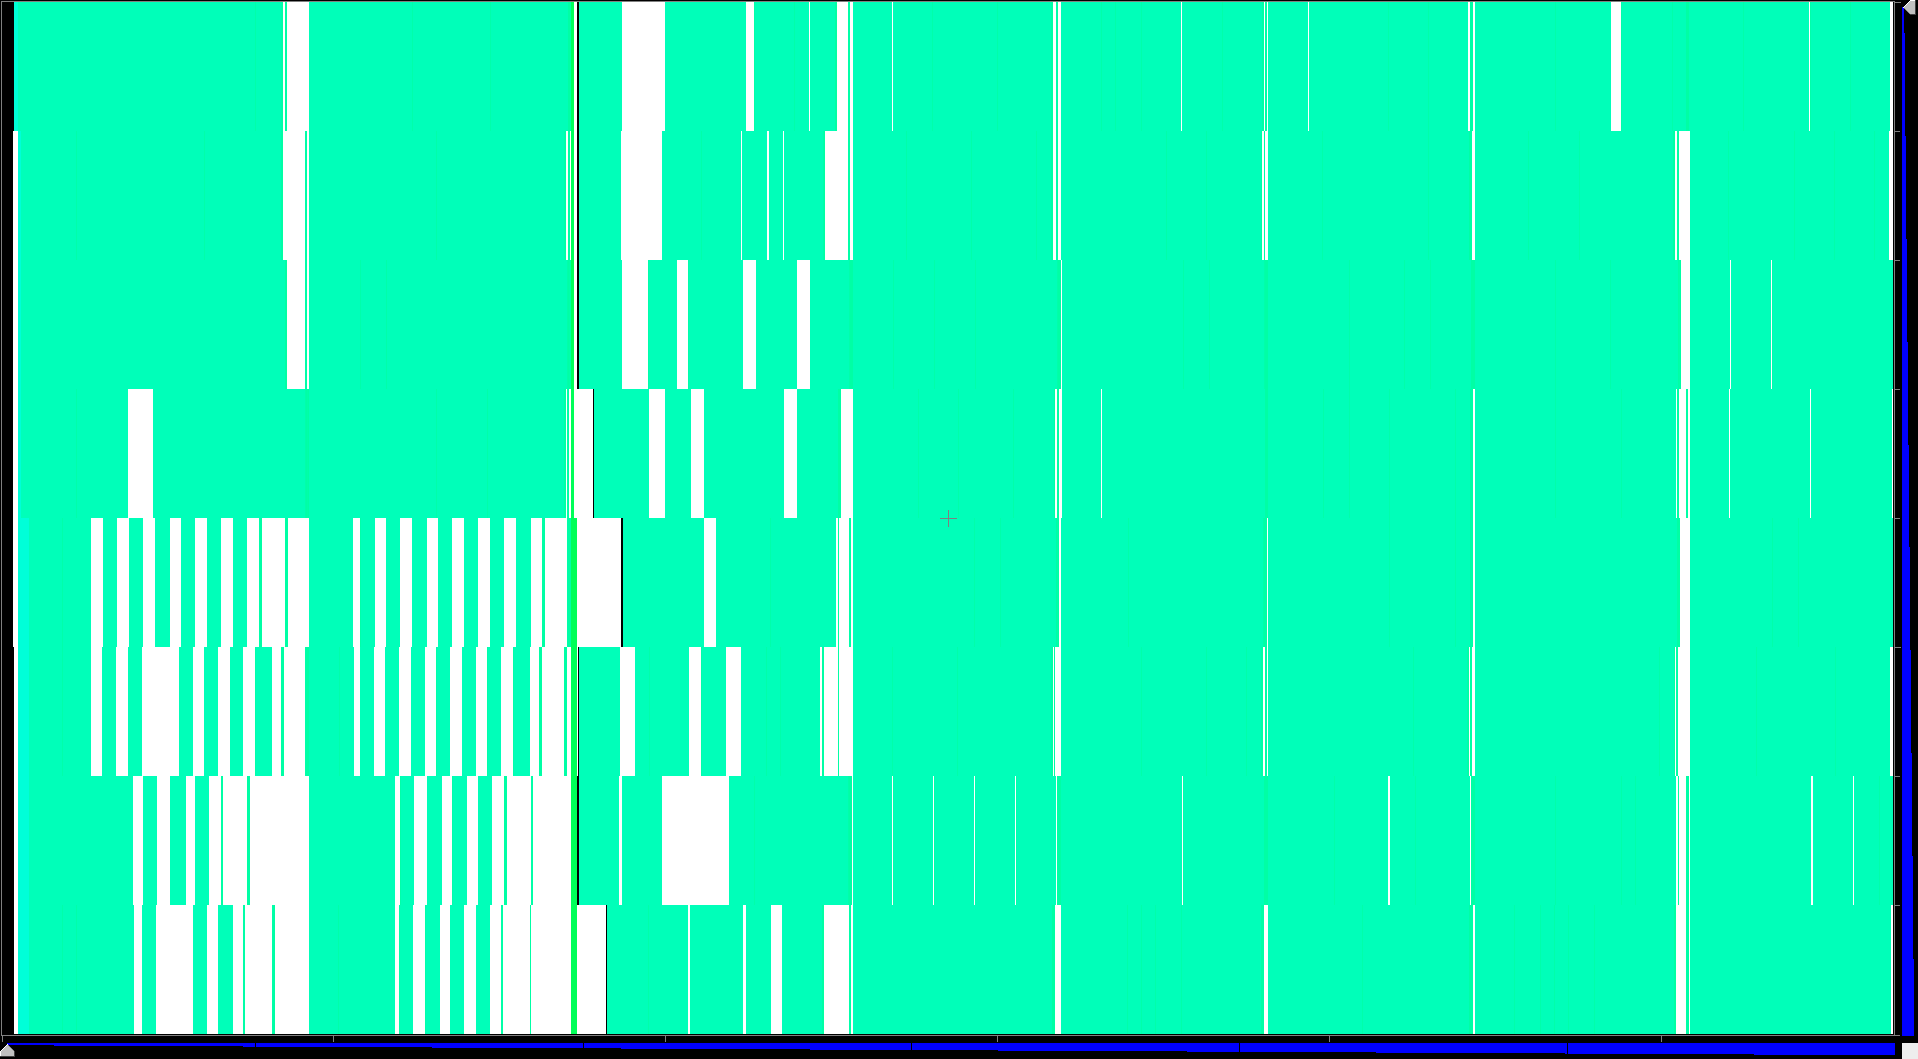
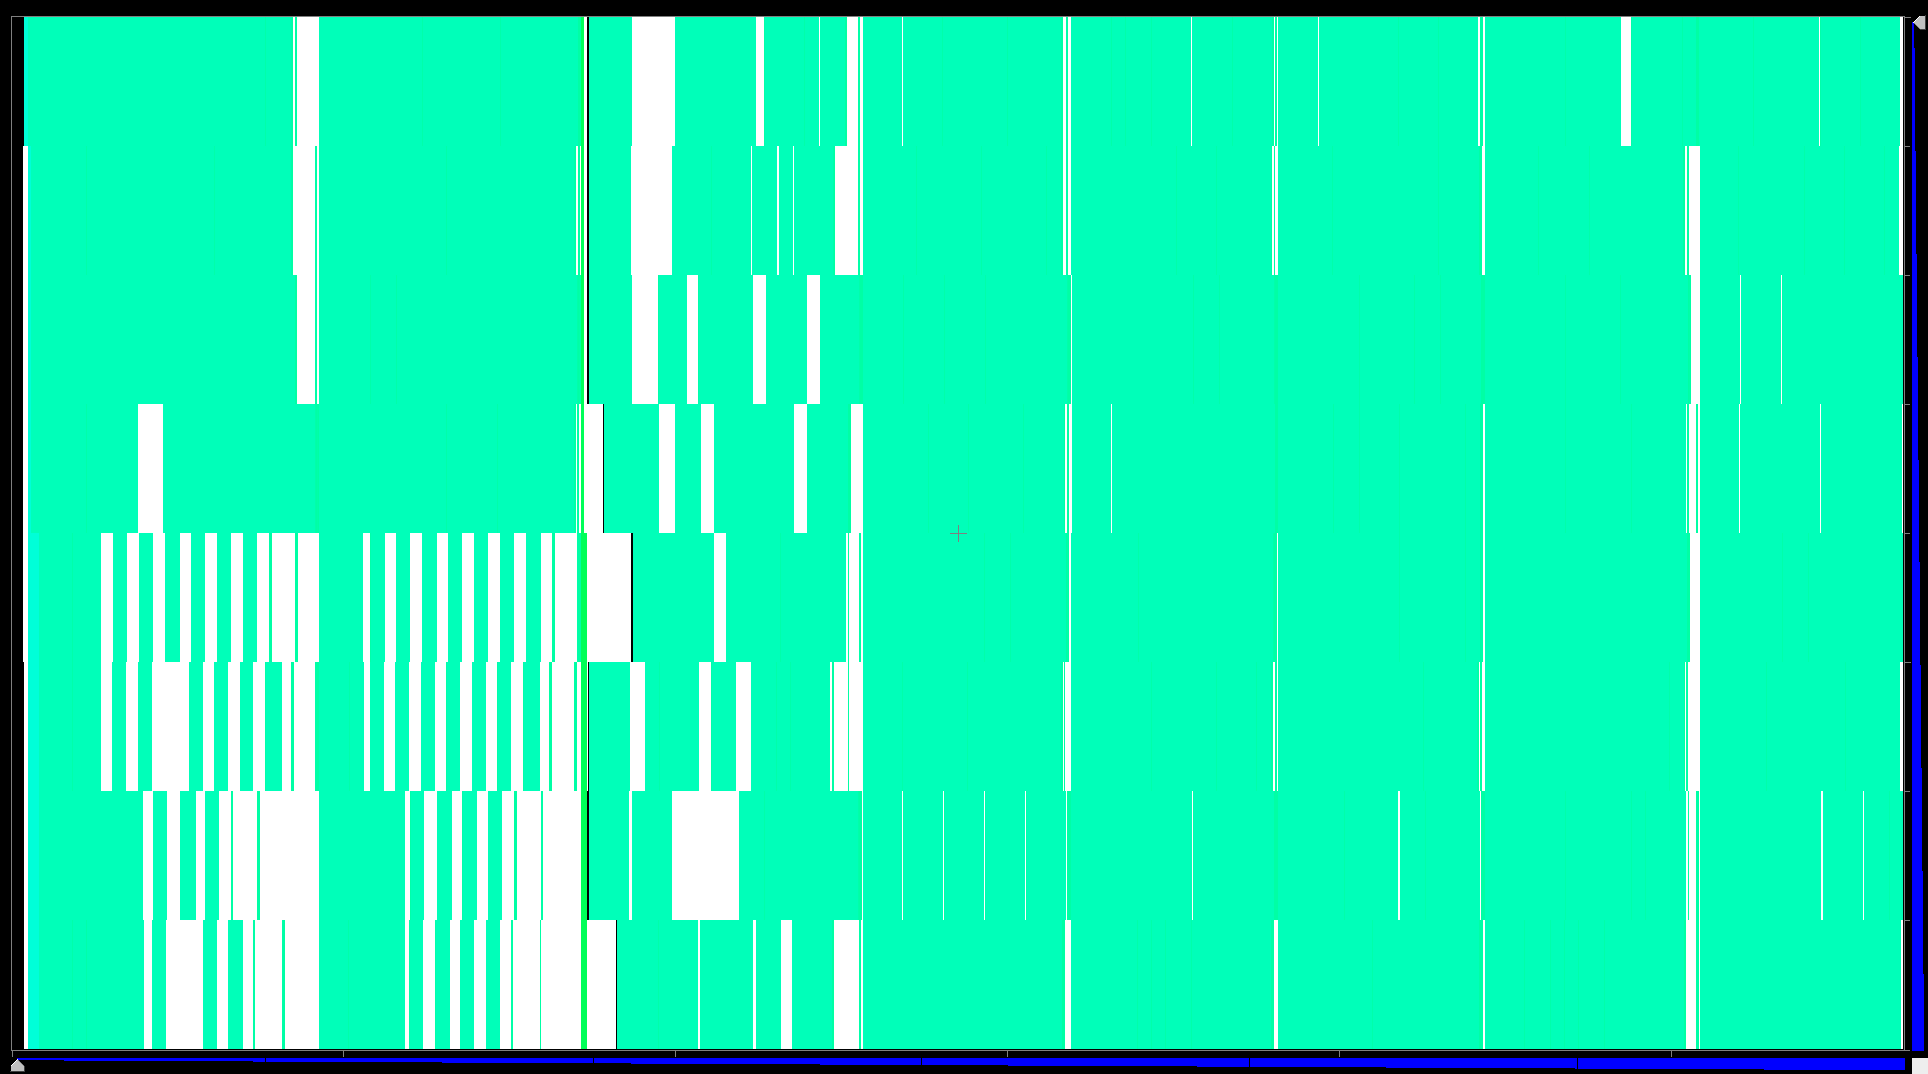
made LB slides better

diff --git a/CS598/scott_siam14.tex b/CS598/scott_siam14.tex
@@ -8,7 +8,9 @@
 \usepackage{animate}
 \usepackage{algorithm}
 \usepackage{algpseudocode}
+\usepackage{caption}
 \pgfplotsset{compat=newest}
+
 
 \usepackage{pgfpages}
 %\pgfpagesuselayout{4 on 1}[a4paper,border shrink=5mm]
@@ -607,29 +609,38 @@
 \end{frame}
 
 \begin{frame}{Numerical Experiments}{DummyLB}
-  \begin{figure}{Time Profile}
-    \includegraphics[width=.65\paperwidth,height=.35\paperheight]{figures/LoadBalancing/TimeProfileDummyLB}
+  \begin{figure}
+%    \floatbox[{\capbeside\thisfloatsetup{capbesideposition={left,top}}}]{figure}[\FBwidth]
+%    {\caption{Time Profile}\label{fig:test}}
+%    {\includegraphics[width=5cm]{name}}
+    \includegraphics[width=.75\paperwidth,height=.27\paperheight]{figures/LoadBalancing/TimeProfileDummyLB}
+    \caption{Time Profile}
   \end{figure}
-  \begin{figure}{\hspace{15pt}Overview}
-    \includegraphics[width=.65\paperwidth,height=.35\paperheight]{figures/LoadBalancing/OverviewDummyLB}
+  \begin{figure}
+    \includegraphics[width=.75\paperwidth,height=.27\paperheight]{figures/LoadBalancing/OverviewDummyLB}
+    \caption{Core Overview}
   \end{figure}
 \end{frame}
 
 \begin{frame}{Numerical Experiments}{GreedyLB}
-  \begin{figure}{Time Profile}
-    \includegraphics[width=.65\paperwidth,height=.35\paperheight]{figures/LoadBalancing/TimeProfileGreedyLB}
+  \begin{figure}
+    \includegraphics[width=.75\paperwidth,height=.27\paperheight]{figures/LoadBalancing/TimeProfileGreedyLB}
+    \caption{Time Profile}
   \end{figure}
-  \begin{figure}{\hspace{15pt}Overview}
-    \includegraphics[width=.65\paperwidth,height=.35\paperheight]{figures/LoadBalancing/OverviewGreedyLB}
+  \begin{figure}
+    \includegraphics[width=.75\paperwidth,height=.27\paperheight]{figures/LoadBalancing/OverviewGreedyLB}
+    \caption{Core Overview}
   \end{figure}
 \end{frame}
 
 \begin{frame}{Numerical Experiments}{RefineLB}
-  \begin{figure}{Time Profile}
-    \includegraphics[width=.65\paperwidth,height=.35\paperheight]{figures/LoadBalancing/TimeProfileRefineLB}
+  \begin{figure}
+    \includegraphics[width=.75\paperwidth,height=.27\paperheight]{figures/LoadBalancing/TimeProfileRefineLB}
+    \caption{Time Profile}
   \end{figure}
-  \begin{figure}{\hspace{15pt}Overview}
-    \includegraphics[width=.65\paperwidth,height=.35\paperheight]{figures/LoadBalancing/OverviewRefineLB}
+  \begin{figure}
+    \includegraphics[width=.75\paperwidth,height=.27\paperheight]{figures/LoadBalancing/OverviewRefineLB}
+    \caption{Core Overview}
   \end{figure}
 \end{frame}
 
